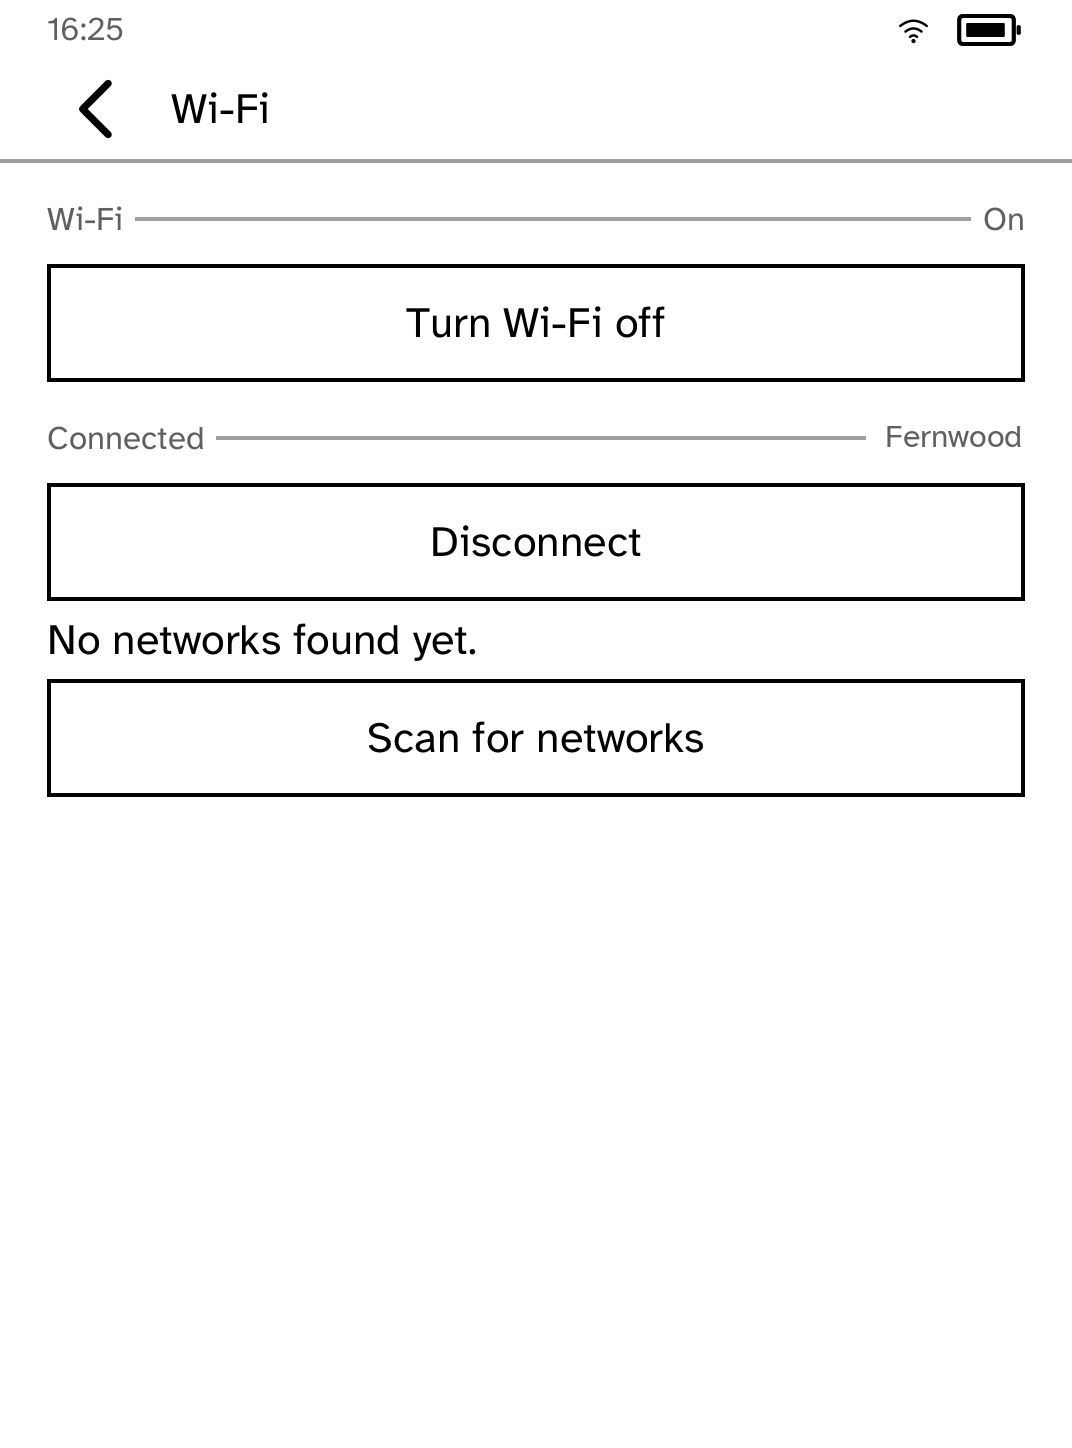
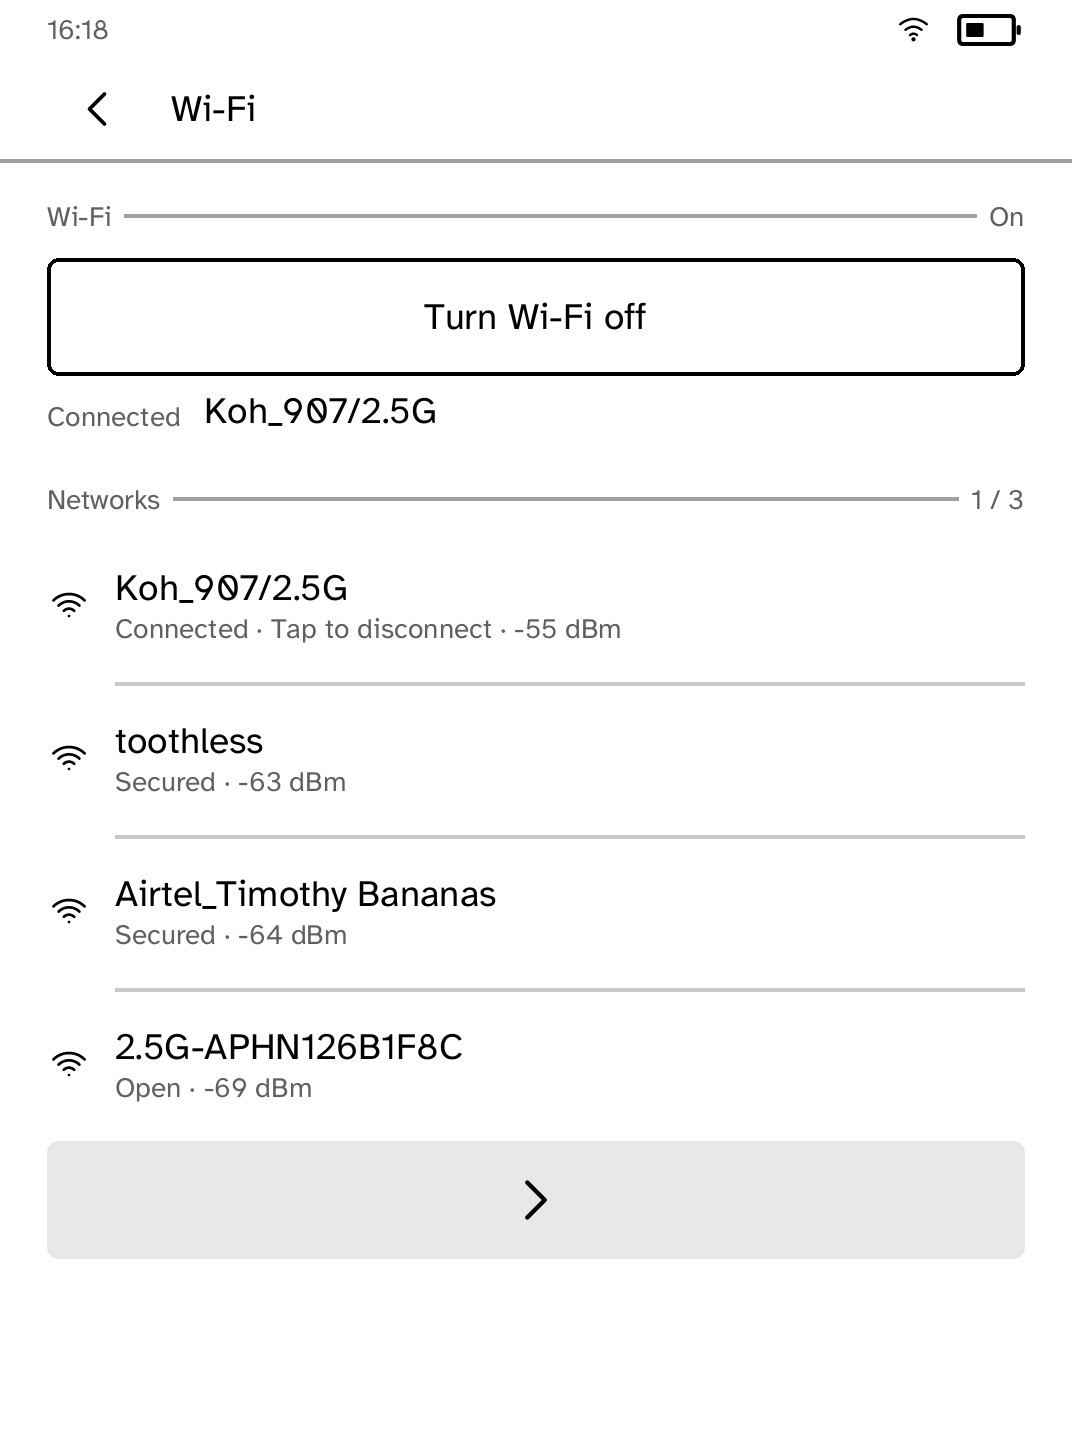
A list of networks looks for them itself
The Wi-Fi screen opened saying "No networks found yet" and waited to be
asked. Nothing had been asked: the radio only scans when somebody presses
Scan, so the sentence was a report on a question nobody had put. It scans
the moment the screen appears now, and again every five seconds while it is
the thing on the panel, which is what a list of things in the air has to do
to stay true. A still list costs nothing: the frame planner declines an
identical frame, so five seconds of unchanged signal is one render and no
panel update.

While it is scanning it says so, and "No networks found." is kept for the
one case where it is true, which is a scan that came back with nothing.

Three consequences, all of them the same defect the review named:

The three stacked full-width outlines are gone. Leaving a network is done
on the row that says it is connected, which is the idiom the Bluetooth
screen beside it already uses for joining one, so there is one place to
look for the switch rather than two. What is connected is a fact now, not a
section, because a section is a heading over rows and that heading had none.

Scan is gone as a control, because pressing it would ask for what is
already happening.

The way on no longer wraps. "More" on the last page promised networks that
were not there and went back to the first page as if that were forward, the
same bug the launcher had. Each direction is offered only where there is a
[…]

diff --git a/examples/settings/src/main.rs b/examples/settings/src/main.rs
@@ -3,7 +3,8 @@
 use kobo_sdk::keyboard::{Keyboard, Pressed};
 use kobo_sdk::{
     action_id, ActionId, BatteryDetail, BluetoothDevice, Context, DeviceRequest, DeviceResult,
-    Glyph, KoboApp, RowLead, Screen, ScreenBuilder, Task, TaskId, TaskOutcome, WifiNetwork,
+    Glyph, Heartbeat, KoboApp, RowLead, Screen, ScreenBuilder, Task, TaskId, TaskOutcome,
+    WifiNetwork,
 };
 use std::process::ExitCode;
 
@@ -13,7 +14,7 @@ const BATTERY: &str = "battery";
 const TOGGLE: &str = "toggle";
 const RESCAN: &str = "rescan";
 const MORE: &str = "more";
-const DISCONNECT_WIFI: &str = "wifi-disconnect";
+const PREVIOUS: &str = "previous";
 const PAGE_SIZE: usize = 4;
 const DEVICE_ACTIONS: [&str; 10] = [
     "bt-0", "bt-1", "bt-2", "bt-3", "bt-4", "bt-5", "bt-6", "bt-7", "bt-8", "bt-9",
@@ -107,6 +108,12 @@ struct Settings {
     connected_ssid: Option<String>,
     networks: Vec<WifiNetwork>,
     wifi_page: usize,
+    /// Ticks while the Wi-Fi screen is open, and each tick asks for another
+    /// scan. A list of networks goes stale the moment the reader carries the
+    /// device into another room, and asking them to press a button to find
+    /// that out is asking them to do the radio's job.
+    scan_clock: Heartbeat,
+    scanning: bool,
     selected_ssid: Option<String>,
     password: Keyboard,
     battery: Option<BatteryDetail>,
@@ -116,7 +123,8 @@ struct Settings {
 }
 
 impl Settings {
-    fn show(&self, context: &mut Context) {
+    fn show(&mut self, context: &mut Context) {
+        self.keep_scanning(context);
         let screen = match self.view {
             View::Home => self.home(),
             View::Bluetooth => self.bluetooth(),
@@ -125,6 +133,26 @@ impl Settings {
             View::Battery => self.battery(),
         };
         context.set_screen(screen);
+    }
+
+    /// Keeps the radio looking for as long as the Wi-Fi list is the thing on
+    /// the panel, and no longer.
+    ///
+    /// Every screen is drawn through `show`, so this is the one place that
+    /// knows what the reader is looking at now rather than what they tapped a
+    /// moment ago. A scan costs a repaint only when the answer differs: the
+    /// frame planner declines an identical frame, so a still list is free.
+    fn keep_scanning(&mut self, context: &mut Context) {
+        if self.view == View::Wifi && self.wifi_state.enabled() {
+            if !self.scan_clock.is_running() {
+                self.scan_clock.start(context);
+                self.scanning = true;
+                context.device().scan_wifi();
+            }
+        } else {
+            self.scan_clock.stop(context);
+            self.scanning = false;
+        }
     }
 
     fn home(&self) -> Screen {
@@ -237,12 +265,14 @@ impl Settings {
                                 )
                             }),
                     );
-                if pages > 1 {
-                    screen =
-                        screen.buttons([(MORE, "More devices"), (RESCAN, "Rescan for devices")]);
-                } else {
-                    screen = screen.button(RESCAN, "Rescan for devices");
-                }
+                screen = screen.controls(
+                    u8::try_from(paging(self.bluetooth_page, pages).len() + 1).unwrap_or(3),
+                    paging(self.bluetooth_page, pages).into_iter().chain([(
+                        RESCAN,
+                        "Rescan",
+                        Glyph::Refresh,
+                    )]),
+                );
             }
         }
         screen.build()
@@ -272,15 +302,25 @@ impl Settings {
             screen = screen.banner(kobo_sdk::BannerLevel::Attention, trouble);
         }
         if self.wifi_state.enabled() {
+            // Every verb on this screen is collected and drawn as one row.
+            // Stacked full-width outlines read as a form rather than as a
+            // choice, and this screen had three of them down the left margin.
             if let Some(ssid) = &self.connected_ssid {
-                screen = screen
-                    .section_with_value("Connected", ssid.as_str())
-                    .button(DISCONNECT_WIFI, "Disconnect");
+                // A fact rather than a section. A section is a heading over
+                // the rows that belong to it, and what is connected has no
+                // rows: it is one label and one value, which is the shape the
+                // battery screen uses for exactly this.
+                screen = screen.facts([("Connected", ssid.as_str())]);
             }
             if self.networks.is_empty() {
-                screen = screen
-                    .text("No networks found yet.")
-                    .button(RESCAN, "Scan for networks");
+                // This screen scans on its own, so "none found" is only true
+                // once a scan has come back with nothing. Before that it is a
+                // report on a question nobody has asked yet.
+                screen = screen.text(if self.scanning {
+                    "Looking for networks…"
+                } else {
+                    "No networks found."
+                });
             } else {
                 let pages = page_count(self.networks.len());
                 screen = screen
@@ -293,8 +333,16 @@ impl Settings {
                             .enumerate()
                             .map(|(index, network)| {
                                 let security = if network.secured { "Secured" } else { "Open" };
+                                // Leaving a network is done where joining one
+                                // is done, which is what the Bluetooth screen
+                                // beside it already says on every row. A verb
+                                // at the foot of the page was a second place
+                                // to look for the same switch.
                                 let summary = if network.connected {
-                                    format!("Connected · {security} · {} dBm", network.signal_dbm)
+                                    format!(
+                                        "Connected · Tap to disconnect · {} dBm",
+                                        network.signal_dbm
+                                    )
                                 } else {
                                     format!("{security} · {} dBm", network.signal_dbm)
                                 };
@@ -306,11 +354,9 @@ impl Settings {
                                 )
                             }),
                     );
-                if pages > 1 {
-                    screen =
-                        screen.buttons([(MORE, "More networks"), (RESCAN, "Scan for networks")]);
-                } else {
-                    screen = screen.button(RESCAN, "Scan for networks");
+                let turns = paging(self.wifi_page, pages);
+                if !turns.is_empty() {
+                    screen = screen.controls(u8::try_from(turns.len()).unwrap_or(2), turns);
                 }
             }
         }
@@ -449,6 +495,20 @@ impl Settings {
         }
     }
 
+    /// Moves the list on the panel one page, clamped at both ends.
+    fn turn_page(&mut self, forward: bool) {
+        let (page, pages) = match self.view {
+            View::Bluetooth => (&mut self.bluetooth_page, page_count(self.devices.len())),
+            View::Wifi => (&mut self.wifi_page, page_count(self.networks.len())),
+            View::Home | View::WifiPassword | View::Battery => return,
+        };
+        *page = if forward {
+            (*page + 1).min(pages - 1)
+        } else {
+            page.saturating_sub(1)
+        };
+    }
+
     fn choose_bluetooth(&mut self, context: &mut Context, index: usize) {
         let Some(device) = self.devices.get(index).cloned() else {
             return;
@@ -470,6 +530,7 @@ impl Settings {
         };
         self.settled(Topic::Wifi);
         if network.connected {
+            context.device().disconnect_wifi();
             return;
         }
         if network.secured {
@@ -559,19 +620,11 @@ impl KoboApp for Settings {
             }
             self.show(context);
         } else if action == action_id(MORE) {
-            match self.view {
-                View::Bluetooth => {
-                    self.bluetooth_page =
-                        (self.bluetooth_page + 1) % page_count(self.devices.len());
-                }
-                View::Wifi => {
-                    self.wifi_page = (self.wifi_page + 1) % page_count(self.networks.len());
-                }
-                View::Home | View::WifiPassword | View::Battery => {}
-            }
+            self.turn_page(true);
             self.show(context);
-        } else if action == action_id(DISCONNECT_WIFI) {
-            context.device().disconnect_wifi();
+        } else if action == action_id(PREVIOUS) {
+            self.turn_page(false);
+            self.show(context);
         } else if let Some(index) = DEVICE_ACTIONS
             .iter()
             .position(|name| action == action_id(name))
@@ -623,6 +676,9 @@ impl KoboApp for Settings {
                     self.networks = networks;
                     self.wifi_page %= page_count(self.networks.len());
                 }
+                if matches!(request, DeviceRequest::ScanWifi) {
+                    self.scanning = false;
+                }
                 self.settled(Topic::Wifi);
             }
             DeviceResult::BatteryDetail(detail) => {
@@ -667,6 +723,15 @@ impl KoboApp for Settings {
     }
 
     fn on_task(&mut self, context: &mut Context, task: TaskId, outcome: TaskOutcome) {
+        // A tick is not an answer to anything the application asked for, so it
+        // is taken before the pending request is consulted.
+        if self.scan_clock.on_task(context, task, &outcome) {
+            if self.view == View::Wifi && self.wifi_state.enabled() {
+                self.scanning = true;
+                context.device().scan_wifi();
+            }
+            return;
+        }
         if self.delayed != Some(task) {
             return;
         }
@@ -688,6 +753,23 @@ impl KoboApp for Settings {
         }
         self.show(context);
     }
+}
+
+/// The page turns a paginated list should offer from where it is standing.
+///
+/// A list that wraps is a list that lies: on the last page "More" promised
+/// devices that were not there, and pressing it took the reader back to the
+/// first page as if that were forward. Each direction is offered only where
+/// there is a page on that side.
+fn paging(page: usize, pages: usize) -> Vec<(&'static str, &'static str, Glyph)> {
+    let mut turns = Vec::new();
+    if page > 0 {
+        turns.push((PREVIOUS, "Previous", Glyph::Previous));
+    }
+    if page + 1 < pages {
+        turns.push((MORE, "Next", Glyph::Next));
+    }
+    turns
 }
 
 fn page_count(items: usize) -> usize {
@@ -742,7 +824,7 @@ fn main() -> ExitCode {
 
 #[cfg(test)]
 mod tests {
-    use super::{RadioState, Settings, DEVICE_ACTIONS, MORE, NETWORK_ACTIONS, RESCAN};
+    use super::{RadioState, Settings, DEVICE_ACTIONS, MORE, NETWORK_ACTIONS, PREVIOUS, RESCAN};
     use kobo_sdk::{
         action_id, BatteryDetail, BluetoothDevice, BluetoothDeviceKind, Chrome, WifiNetwork,
         CLARA_BW_METRICS,
@@ -794,8 +876,72 @@ mod tests {
         let issues = screen.validate(&CLARA_BW_METRICS);
         assert!(issues.is_empty(), "{issues:?}");
         let layout = screen.layout_with(&CLARA_BW_METRICS, &Chrome::with_back(true));
-        assert!(layout.rect_of_action(action_id(RESCAN)).is_some());
         assert!(layout.rect_of_action(action_id(MORE)).is_some());
+        assert!(layout.rect_of_action(action_id(PREVIOUS)).is_none());
+    }
+
+    /// The bug this pins: the way on wrapped, so the last page of networks
+    /// offered a page that was not there and called going back to the first
+    /// one "More".
+    #[test]
+    fn the_last_page_of_networks_offers_only_the_way_back() {
+        let mut settings = Settings {
+            wifi_state: RadioState::On,
+            networks: NETWORK_ACTIONS
+                .iter()
+                .enumerate()
+                .map(|(index, _)| WifiNetwork {
+                    ssid: format!("Network {index}"),
+                    signal_dbm: -40,
+                    secured: true,
+                    connected: false,
+                })
+                .collect(),
+            ..Settings::default()
+        };
+        settings.wifi_page = super::page_count(settings.networks.len()) - 1;
+        let layout = settings
+            .wifi()
+            .layout_with(&CLARA_BW_METRICS, &Chrome::with_back(true));
+        assert!(layout.rect_of_action(action_id(PREVIOUS)).is_some());
+        assert!(layout.rect_of_action(action_id(MORE)).is_none());
+    }
+
+    /// The bug this pins: an empty list said "No networks found yet" the
+    /// instant the screen opened, before the radio had been asked anything.
+    /// The screen scans on its own now, so it has to say which of the two
+    /// situations it is in.
+    #[test]
+    fn an_empty_wifi_list_says_whether_it_is_still_looking() {
+        let looking = Settings {
+            wifi_state: RadioState::On,
+            scanning: true,
+            ..Settings::default()
+        };
+        let settled = Settings {
+            wifi_state: RadioState::On,
+            ..Settings::default()
+        };
+        assert!(text_of(&looking.wifi()).contains("Looking for networks"));
+        assert!(text_of(&settled.wifi()).contains("No networks found."));
+        // And neither offers a Scan button, because pressing one would ask
+        // for what is already happening every five seconds.
+        let layout = looking
+            .wifi()
+            .layout_with(&CLARA_BW_METRICS, &Chrome::with_back(true));
+        assert!(layout.rect_of_action(action_id(RESCAN)).is_none());
+    }
+
+    fn text_of(screen: &kobo_sdk::Screen) -> String {
+        screen
+            .nodes
+            .iter()
+            .filter_map(|node| match node {
+                kobo_sdk::Node::Text { text, .. } => Some(text.clone()),
+                _ => None,
+            })
+            .collect::<Vec<_>>()
+            .join(" ")
     }
 
     #[test]
